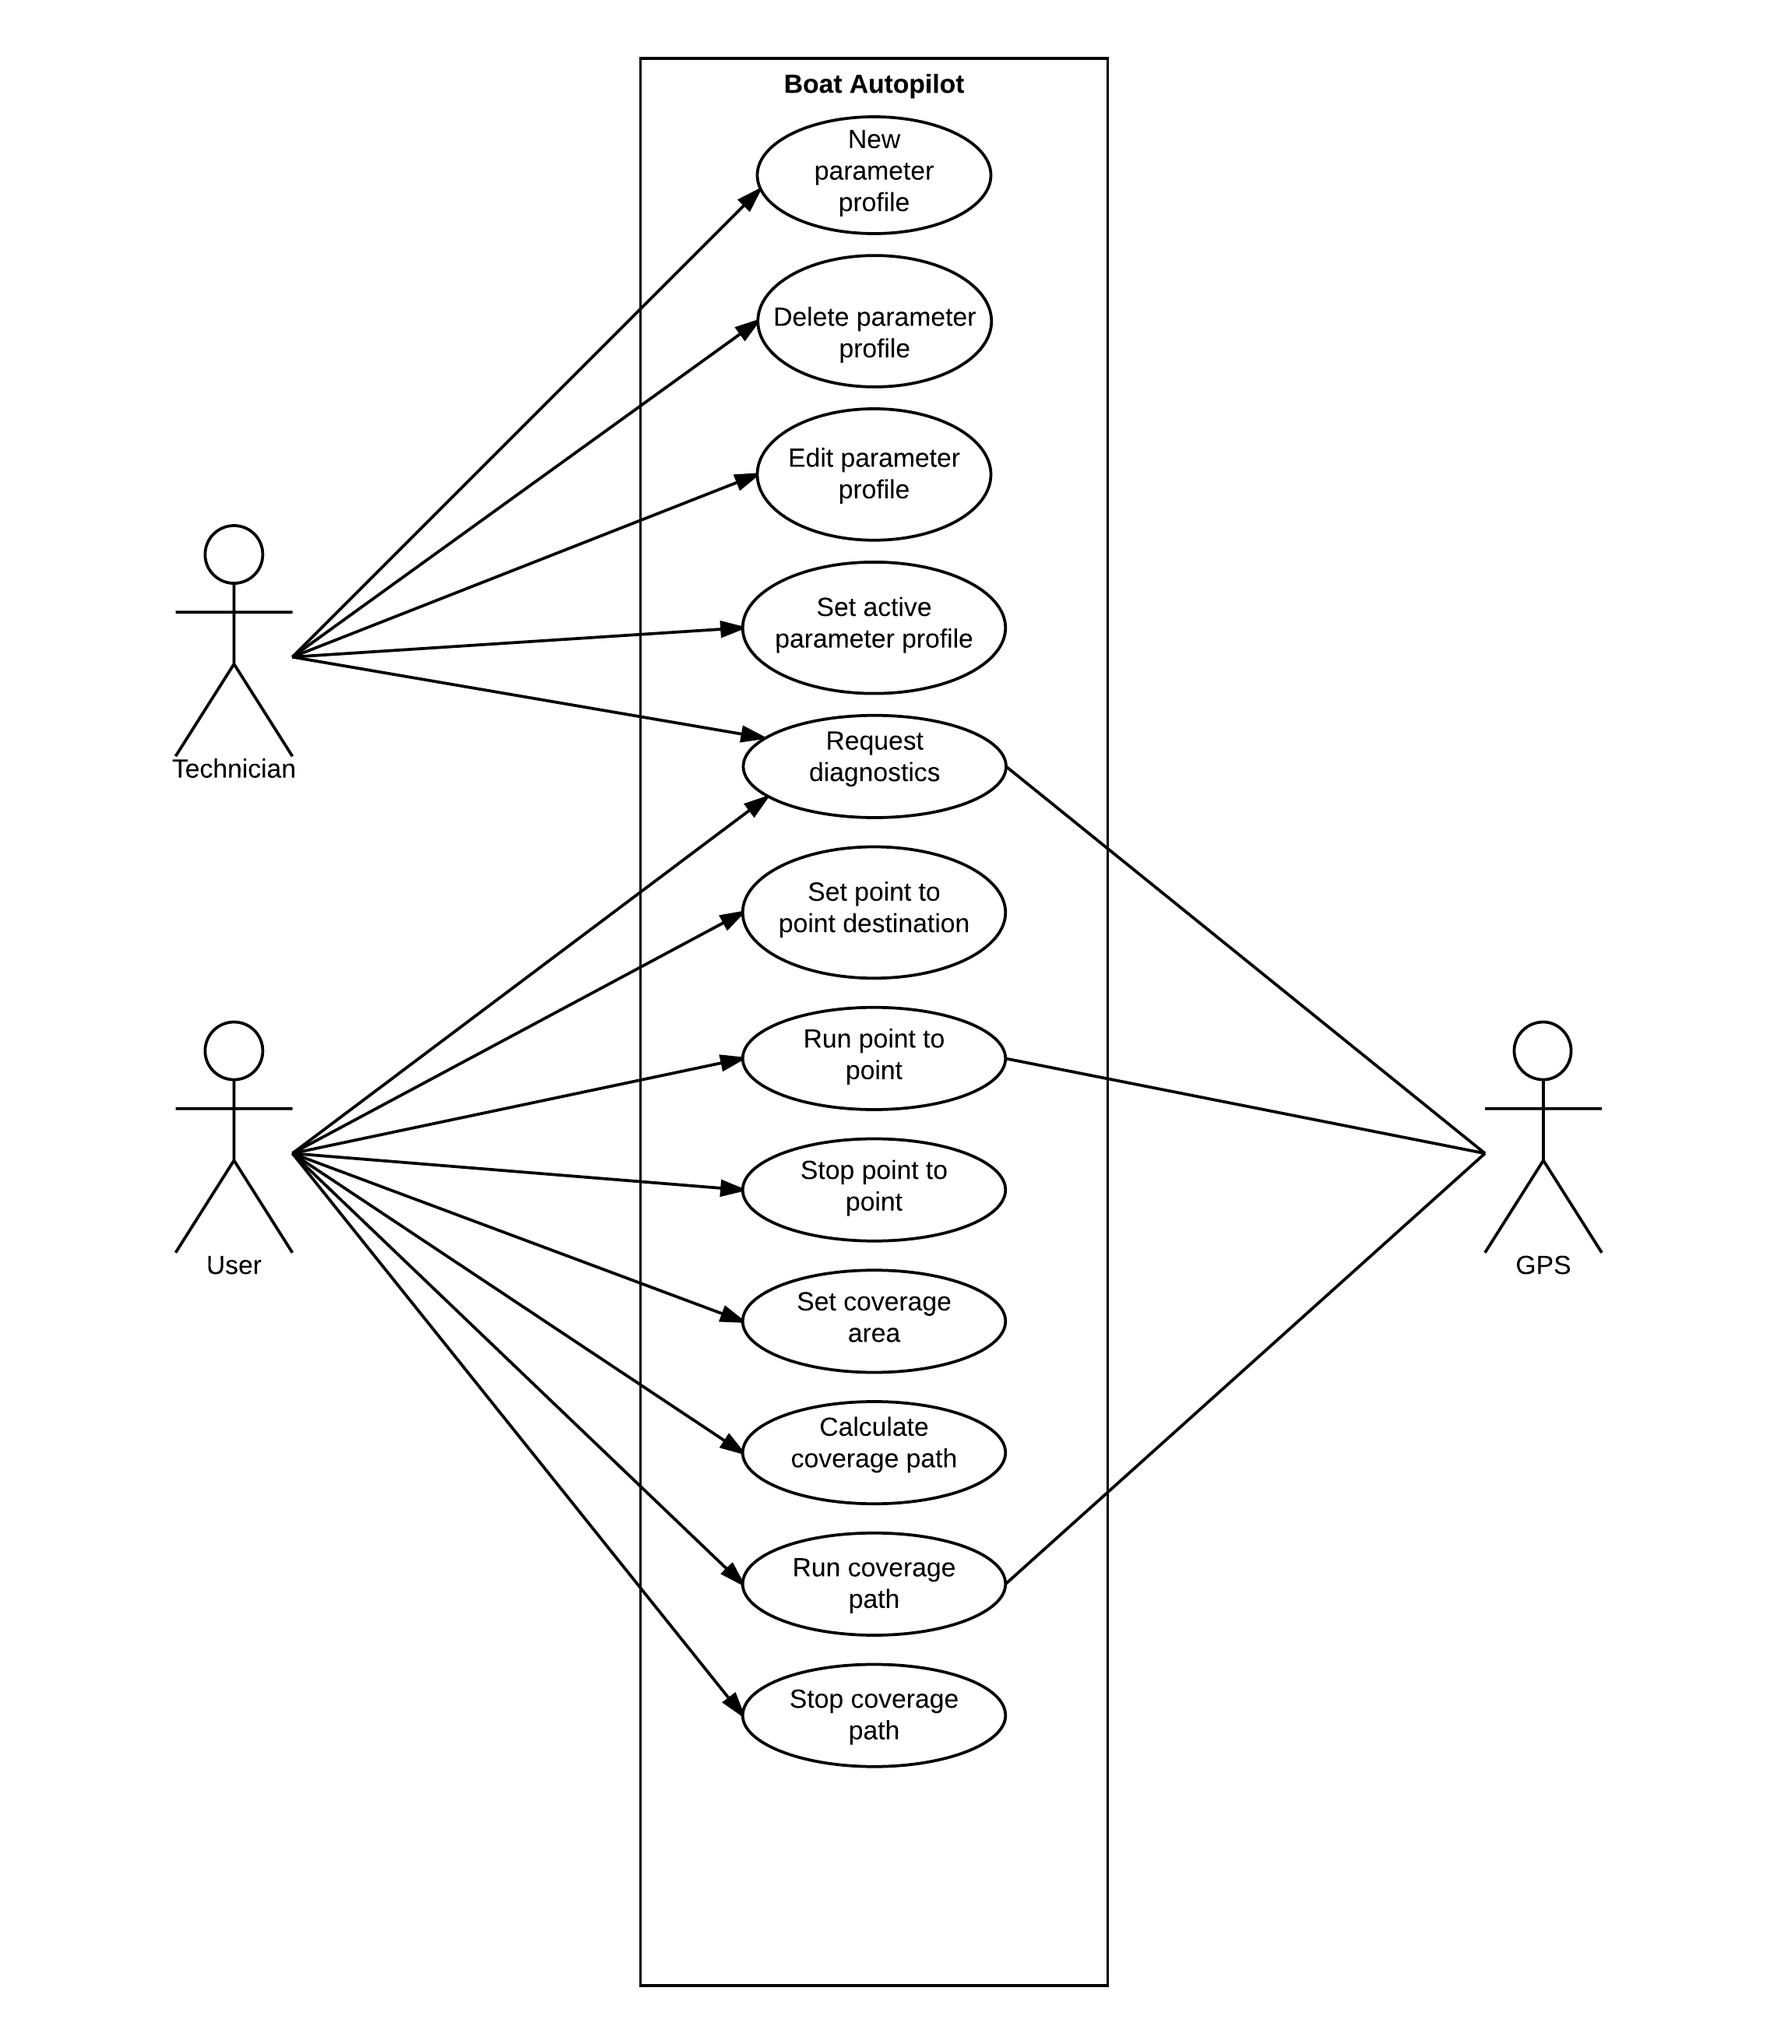
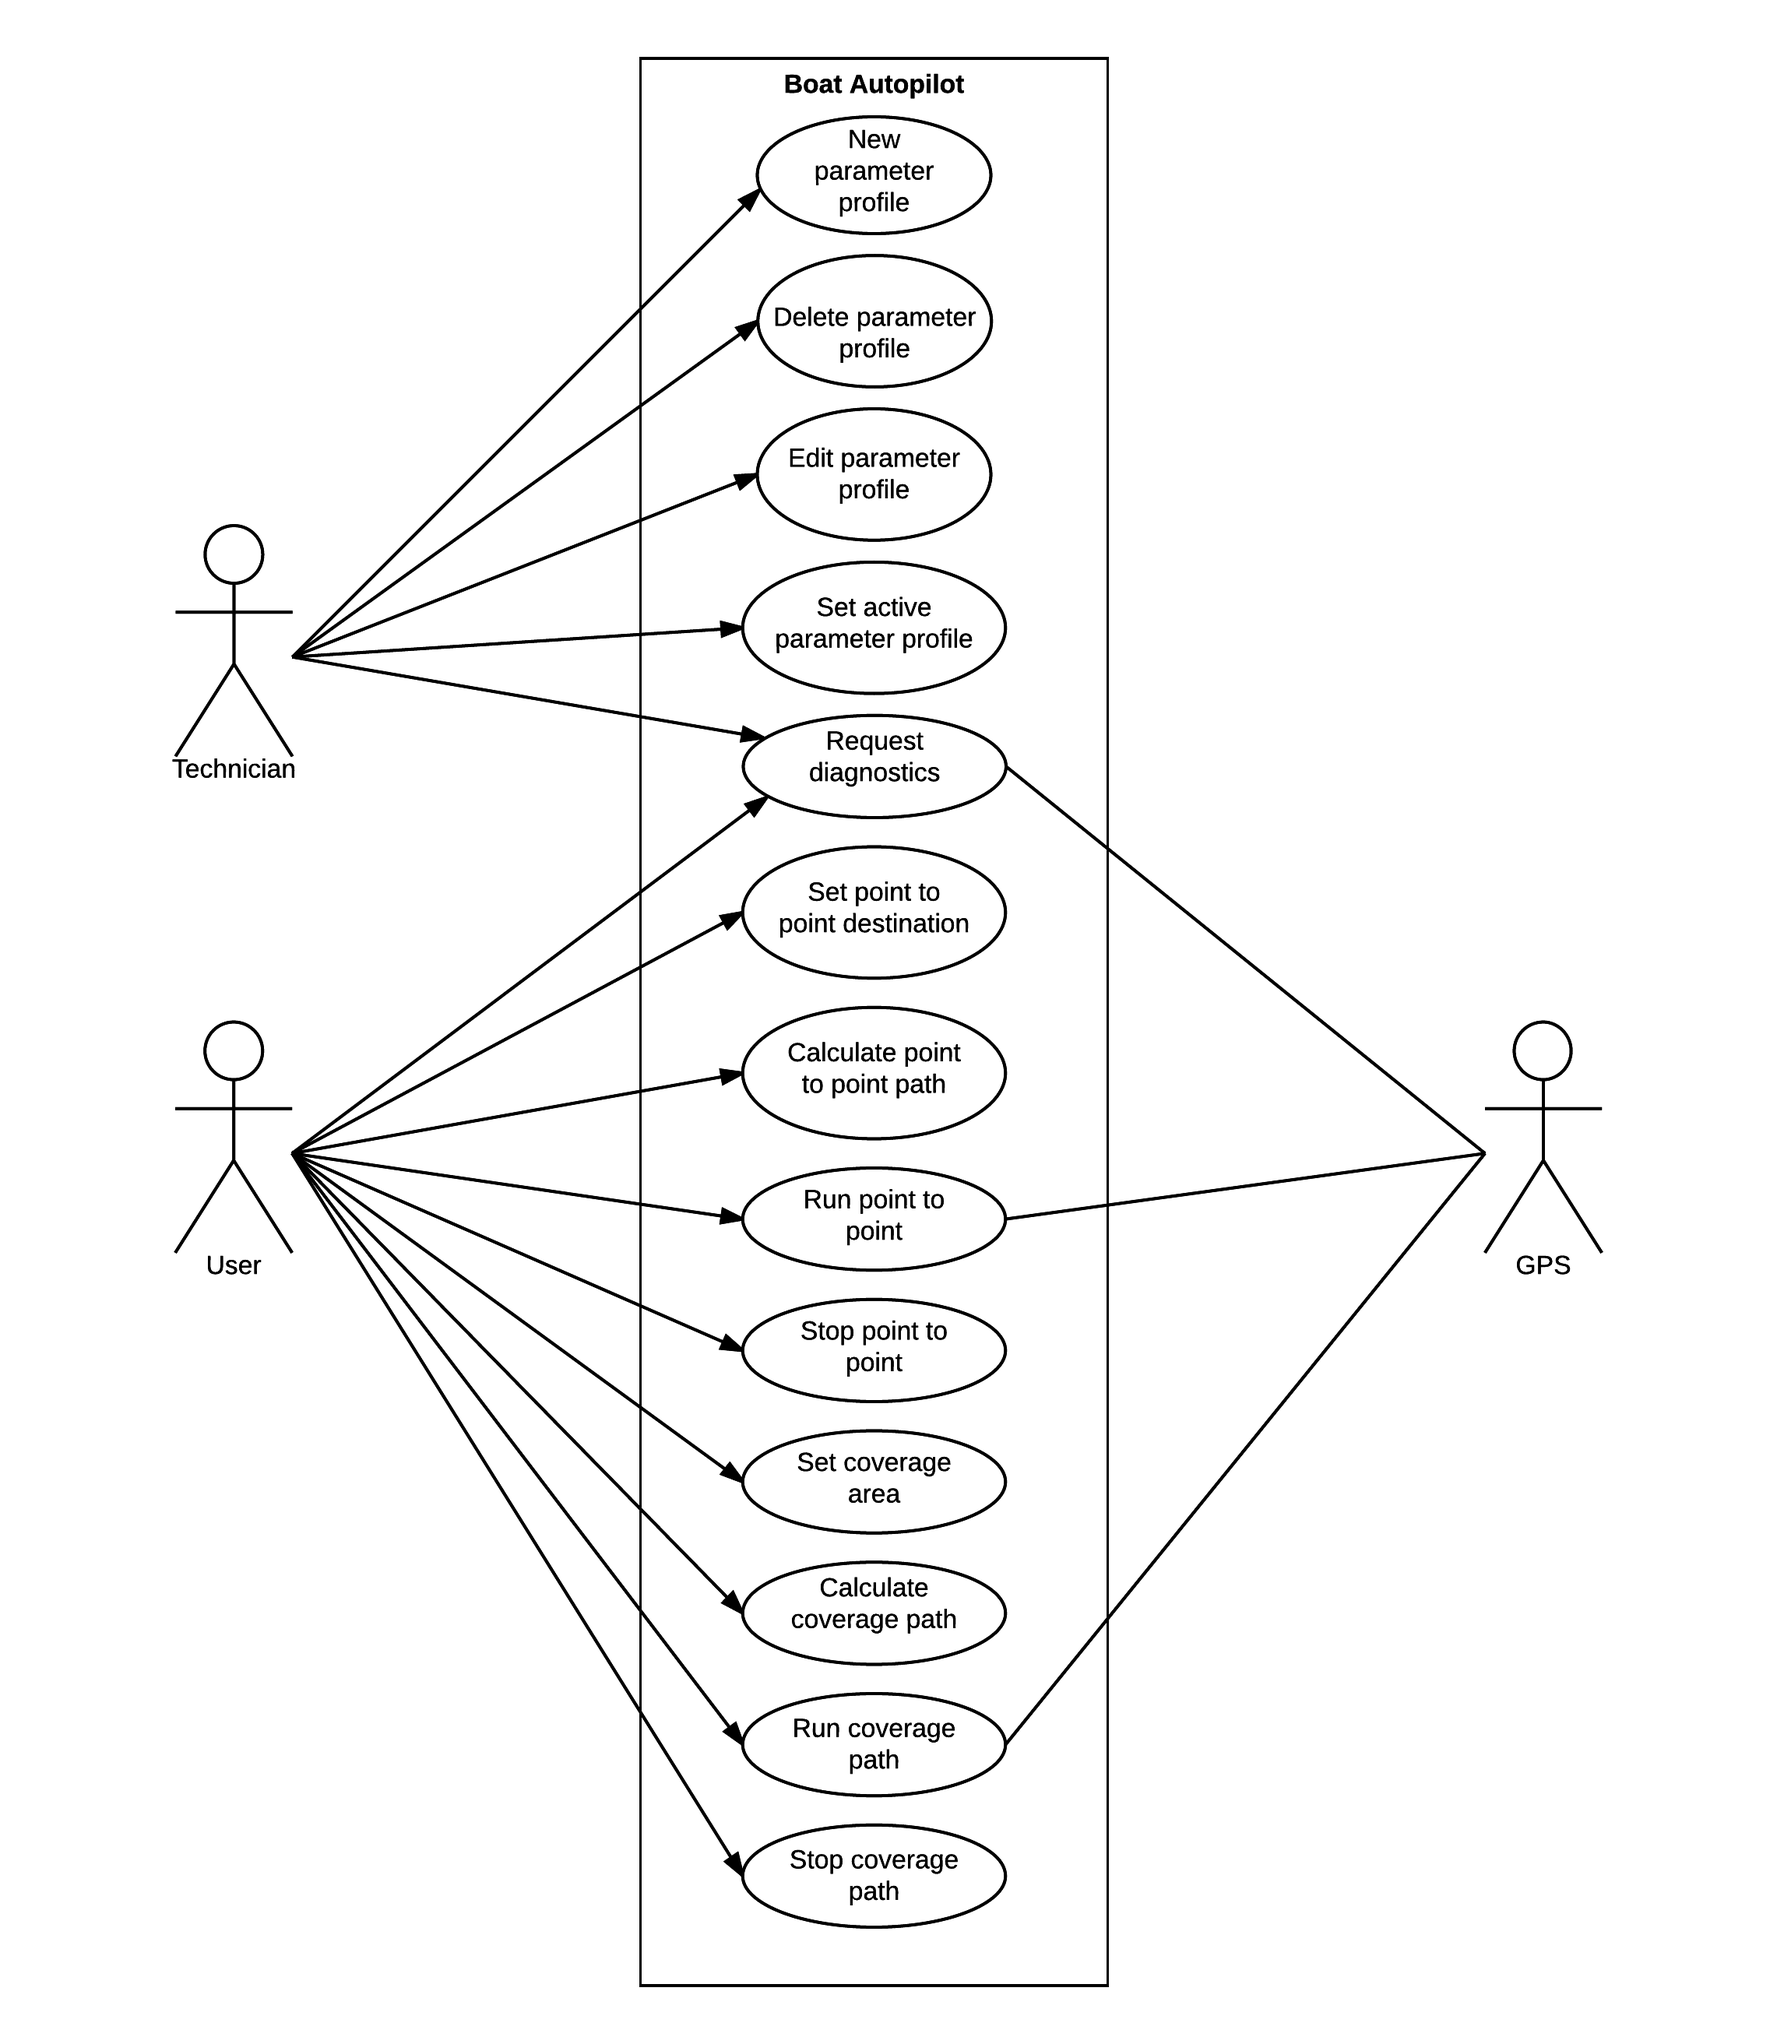
Wrote all of the use cases

diff --git a/Requirements_specification.tex b/Requirements_specification.tex
@@ -98,7 +98,7 @@ Use case 3 - Edit parameter profile
 One
 
 \subsubsection*{Prerequisite:}
-Edit parameter menu is opened in user interface
+"Edit parameter" menu is opened in user interface
 
 \subsubsection*{Result:}
 A new parameter profile has been created.
@@ -130,7 +130,7 @@ A new parameter profile has been created.
 	
 	\subsubsection*{Prerequisite:}
 	\begin{itemize}
-		\item Edit parameter menu is opened in user interface
+		\item "Edit parameter" menu is opened in user interface
 		\item A parameter profile must exist.
 	\end{itemize}
 	
@@ -177,7 +177,7 @@ One
 
 \subsubsection*{Prerequisite:}
 \begin{itemize}
-	\item Edit parameter menu is opened in user interface
+	\item "Edit parameter" menu is opened in user interface
 	\item A parameter profile must exist.
 \end{itemize}
 
@@ -226,7 +226,7 @@ The parameter profile has been edited
 	
 	\subsubsection*{Prerequisite:}
 	\begin{itemize}
-		\item Edit parameter menu is opened in user interface
+		\item "Edit parameter" menu is opened in user interface
 		\item A parameter profile must exist.
 	\end{itemize}
 
@@ -299,7 +299,7 @@ The parameter profile has been edited
 	\subsubsection*{Prerequisite:}
 	\begin{itemize}
 		\item The user interface has an updated map
-		\item The point to point menu is opened in user interface
+		\item The "Point to point" menu is opened in user interface
 	\end{itemize}
 
 	\subsubsection*{Result:}
@@ -320,4 +320,275 @@ The parameter profile has been edited
 			\item The main scenario is continued from \ref{uc4.2}
 		\end{enumerate}
 	\end{enumerate}
+\end{framed}	
+
+\begin{framed}
+	\subsection{Use case 7 - Calculate point to point path}
+	\subsubsection*{Goal:}
+	A path to the destination has been calculated.
+	
+	\subsubsection*{Initialization:}
+	User
+	
+	\subsubsection*{Actors:}
+	User (primary)
+	
+	\subsubsection*{References:}
+	None
+	
+	\subsubsection*{Simultaneous occurrences:}
+	One 
+	
+	\subsubsection*{Prerequisite:}
+	\begin{itemize}
+		\item The user interface has an updated map
+		\item The "Point to point" menu is opened in user interface
+		\item The boat must not be running a navigation task.
+	\end{itemize}
+	
+	\subsubsection*{Result:}
+	A path to the destination has been calculated.
+	
+	\subsubsection*{Main scenario:}
+	\begin{enumerate}
+		\item The user selects "Calculate path" from the user interface.
+		\item A path is calculated and displayed on the map. 
+		\item The "Calculate path" option is changed to "Start"
+	\end{enumerate}	
+\end{framed}	
+
+
+\begin{framed}
+	\subsection{Use case 8 - Run point to point path}
+	\subsubsection*{Goal:}
+	The boat reaches the point to point destination
+	
+	\subsubsection*{Initialization:}
+	User
+	
+	\subsubsection*{Actors:}
+	User (primary)
+	
+	\subsubsection*{References:}
+	Use case 7 - Calculate point to point path
+	
+	\subsubsection*{Simultaneous occurrences:}
+	One 
+	
+	\subsubsection*{Prerequisite:}
+	\begin{itemize}
+		\item The user interface has an updated map
+		\item The "Point to point" menu is opened in user interface
+		\item Use case 7 - Calculate point to point path has been completed
+		\item There must be an active parameter profile.
+		\item The boat must not be running a navigation task.
+	\end{itemize}
+	
+	\subsubsection*{Result:}
+	The destination is reached
+	
+	\subsubsection*{Main scenario:}
+	\begin{enumerate}
+		\item The user selects "Start".
+		\item The "Start" button on the user interface changes to read "Running...".
+		\item The boat runs a control loop based on direction data from the calculated path.
+		\item The position of the boat on the user interface map is continually updated using GPS.
+		\item The ETA is continually calculated and displayed on the user interface.
+		\item When the boat reaches its destination it stops.
+		\item On the user interface the "Running..." button is replaced by the "Calculate path" button.
+	\end{enumerate}	
+\end{framed}	
+
+\begin{framed}
+	\subsection{Use case 9 - Stop point to point path}
+	\subsubsection*{Goal:}
+	The boat stops while running point to point navigation
+	
+	\subsubsection*{Initialization:}
+	User
+	
+	\subsubsection*{Actors:}
+	User (primary)
+	
+	\subsubsection*{References:}
+	Use case 8 - Run point to point path
+	
+	\subsubsection*{Simultaneous occurrences:}
+	One 
+	
+	\subsubsection*{Prerequisite:}
+	\begin{itemize}
+		\item The user interface has an updated map
+		\item The "Point to point" menu is opened in user interface
+		\item Use case 8 - Run point to point is running
+		\item There must be an active parameter profile.
+		
+	\end{itemize}
+	
+	\subsubsection*{Result:}
+	The boat has stopped
+	
+	\subsubsection*{Main scenario:}
+	\begin{enumerate}
+		\item The user selects "Stop".
+		\item The "Running..." button changes to the "Calculate path" button.
+		\item The boat turns off its motors and comes to a halt.
+	\end{enumerate}	
+\end{framed}	
+
+\begin{framed}
+	\subsection{Use case 10 - Set coverage area}
+	\subsubsection*{Goal:}
+	To specify an area to cover.
+	
+	\subsubsection*{Initialization:}
+	User
+	
+	\subsubsection*{Actors:}
+	User (primary)
+	
+	\subsubsection*{References:}
+	None
+	
+	\subsubsection*{Simultaneous occurrences:}
+	One
+	
+	\subsubsection*{Prerequisite:}
+	\begin{itemize}
+		\item The user interface has an updated map
+		\item The "Coverage" menu is opened in user interface
+	\end{itemize}
+	
+	\subsubsection*{Result:}
+	A coverage area has been defined
+	
+	\subsubsection*{Main scenario:}
+	\begin{enumerate}
+		\item The user selects two positions on the map which encapsulates a rectangle. One of the points is labeled "1", this specifies the starting point of the coverage route, the other is labeled "2" indicating the endpoint.
+		\item \label{uc10.2} The user interface displays the selected rectangle on the map, including the staring point "1" and endpoint "2".
+		\item The user interface displays the selected points as coordinates.
+	\end{enumerate}	
+	
+	\subsubsection*{Alternate flow:}
+	\begin{enumerate}
+		\item 
+		\begin{enumerate}
+			\item The user inputs latitude and longitude for each point "1" and "2" in the user interface.
+			\item The main scenario is continued from \ref{uc10.2}
+		\end{enumerate}
+	\end{enumerate}
+\end{framed}	
+
+\begin{framed}
+	\subsection{Use case 11 - Calculate coverage path}
+	\subsubsection*{Goal:}
+	To calculate a path that covers an area.
+	
+	\subsubsection*{Initialization:}
+	User
+	
+	\subsubsection*{Actors:}
+	User (primary)
+	
+	\subsubsection*{References:}
+	Use case 10 - Set coverage area
+	
+	\subsubsection*{Simultaneous occurrences:}
+	One 
+	
+	\subsubsection*{Prerequisite:}
+	\begin{itemize}
+		\item The user interface has an updated map
+		\item The "Coverage" menu is opened in user interface.
+		\item The area to cover must be defined.
+		\item The boat must not be running a navigation task.
+	\end{itemize}
+	
+	\subsubsection*{Result:}
+	A path to the destination has been calculated.
+	
+	\subsubsection*{Main scenario:}
+	\begin{enumerate}
+		\item The user selects "Calculate path" from the user interface.
+		\item A path is calculated and displayed on the map. 
+		\item The "Calculate path" option is changed to "Start"
+	\end{enumerate}	
+\end{framed}	
+
+\begin{framed}
+	\subsection{Use case 12 - Run coverage path}
+	\subsubsection*{Goal:}
+	The boat completes its coverage path.
+	
+	\subsubsection*{Initialization:}
+	User
+	
+	\subsubsection*{Actors:}
+	User (primary)
+	
+	\subsubsection*{References:}
+	Use case 11 - Calculate coverage path
+	
+	\subsubsection*{Simultaneous occurrences:}
+	One 
+	
+	\subsubsection*{Prerequisite:}
+	\begin{itemize}
+		\item The user interface has an updated map
+		\item The "Coverage" menu is opened in user interface
+		\item Use case 11 - Calculate coverage path has been completed
+		\item There must be an active parameter profile.
+		\item The boat must not be running a navigation task.
+	\end{itemize}
+	
+	\subsubsection*{Result:}
+	The coverage path is completed.
+	
+	\subsubsection*{Main scenario:}
+	\begin{enumerate}
+		\item The user selects "Start".
+		\item The "Start" button on the user interface changes to read "Running...".
+		\item The boat runs a control loop based on direction data from the calculated coverage path.
+		\item The position of the boat on the user interface map is continually updated using GPS.
+		\item The ETA is continually calculated and displayed on the user interface.
+		\item When the boat reaches its destination, it stops.
+		\item On the user interface the "Running..." button is replaced by a "Calculate path" button.
+	\end{enumerate}	
+\end{framed}	
+
+\begin{framed}
+	\subsection{Use case 13 - Stop point to point path}
+	\subsubsection*{Goal:}
+	The boat stops while running coverage navigation
+	
+	\subsubsection*{Initialization:}
+	User
+	
+	\subsubsection*{Actors:}
+	User (primary)
+	
+	\subsubsection*{References:}
+	Use case 12 - Run coverage path
+	
+	\subsubsection*{Simultaneous occurrences:}
+	One 
+	
+	\subsubsection*{Prerequisite:}
+	\begin{itemize}
+		\item The user interface has an updated map
+		\item The "Coverage" menu is opened in user interface
+		\item Use case 12 - Run coverage path is running
+		\item There must be an active parameter profile.
+		
+	\end{itemize}
+	
+	\subsubsection*{Result:}
+	The boat has stopped
+	
+	\subsubsection*{Main scenario:}
+	\begin{enumerate}
+		\item The user selects stop.
+		\item The "Running..." button changes to a "Calculate path" button.
+		\item The boat turns off its motors and comes to a halt.
+	\end{enumerate}	
 \end{framed}	
